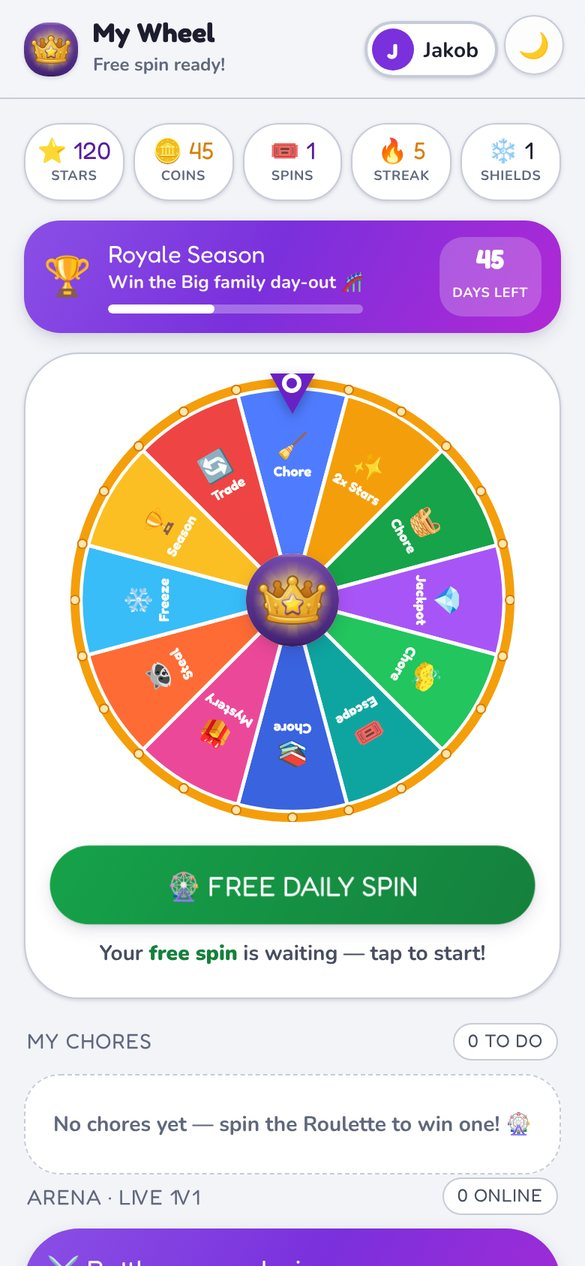
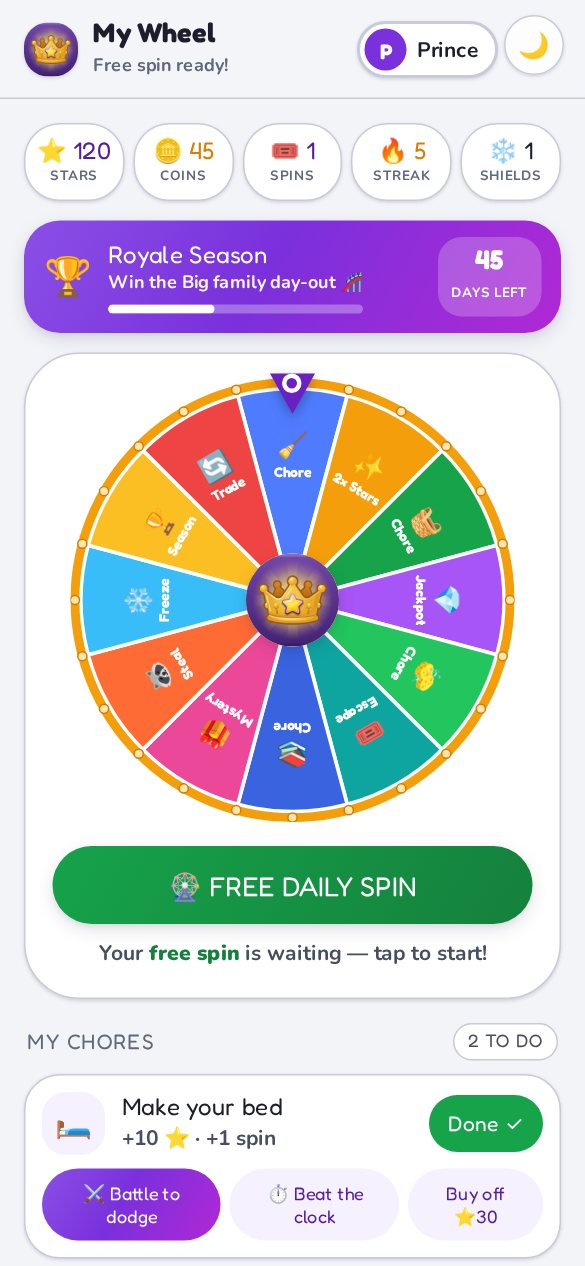
Screens: neutral demo names in SH✡MER and Chore Royale shots
Claude-Session: https://claude.ai/code/session_01NYMEjb3suz5Xdw8cPuvfsd

diff --git a/work/chore-royale.html b/work/chore-royale.html
@@ -338,9 +338,9 @@ footer a:hover{color:var(--gold-lt)}
       <div class="phones">
         <div class="ph"><img src="../assets/work/chore-royale/scr-clan.jpg" alt="Clan screen: pick who is playing" width="585" height="1266" loading="lazy"></div>
         <div class="ph"><img src="../assets/work/chore-royale/scr-wheel.jpg" alt="My Wheel screen with stars, coins, streak and the Chore Roulette" width="585" height="1266" loading="lazy"></div>
-        <div class="ph"><img src="../assets/work/chore-royale/scr-prize.jpg" alt="Spin result: a Streak Shield, no blanks ever" width="585" height="1266" loading="lazy"></div>
+        <div class="ph"><img src="../assets/work/chore-royale/scr-spin.jpg" alt="Spin result: a new chore to finish for stars and another spin" width="585" height="1266" loading="lazy"></div>
       </div>
-      <div class="cap"><span><i class="gem s"></i>Pick your champion</span><span><i class="gem s"></i>Spin the Roulette</span><span><i class="gem s"></i>No blanks, ever</span></div>
+      <div class="cap"><span><i class="gem s"></i>Pick your champion</span><span><i class="gem s"></i>Spin the Roulette</span><span><i class="gem s"></i>Every spin counts</span></div>
     </div></div>
   </section>
 
